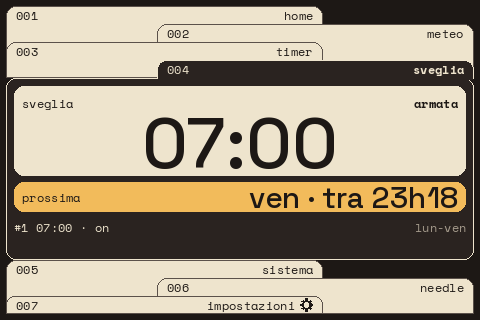
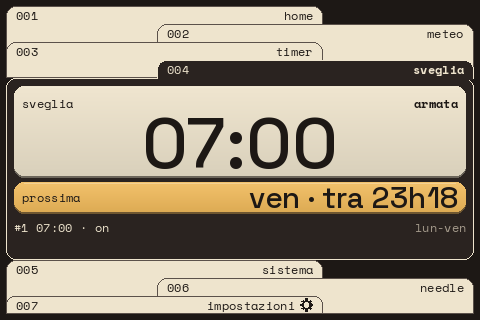
Togli il cursore lampeggiante e dai più rilievo alla grafica
Claude-Session: https://claude.ai/code/session_01Apbx8p7nQq6Tz9RBWnoY8j

Changed region(s): [[0.0312, 0.6562, 0.9688, 0.6875], [0.0312, 0.5312, 0.9688, 0.5625]]

diff --git a/dash/render/canvas.py b/dash/render/canvas.py
@@ -17,6 +17,7 @@ from ..motion import Fx, Slot
 from .theme import GRID, fit, font, px, text_mask
 
 Color = str | tuple[int, int, int]
+_GRADIENTS: dict[tuple, tuple[Image.Image, Image.Image]] = {}  # sfumature dei pannelli già pronte
 
 
 class Canvas:
@@ -65,6 +66,92 @@ class Canvas:
                                  outline=None if outline is None else self.rgb(outline),
                                  width=self.line if width is None else width)
 
+    def solid(self, box: Box | tuple[float, float, float, float], fill: str, r: int | None = None,
+              depth: bool = True) -> None:
+        """Pannello a rilievo: ombra morbida sotto, sfumatura leggera dall'alto, filo di luce.
+
+        Stesso ingombro di `rect`: l'ombra cade nello spazio fra pannelli (`gap`). Con `depth`
+        falso (cartelle, linguette) disegna solo la sfumatura e il filo di luce.
+        """
+        xy = tuple(round(v) for v in (box.rect if isinstance(box, Box) else box))
+        r = self.radius if r is None else r
+        w, h = xy[2] - xy[0], xy[3] - xy[1]
+        if w < 4 or h < 4:
+            self.rect(xy, fill, r=r)
+            return
+        if depth:
+            dy = self.px(2)
+            self.d.rounded_rectangle((xy[0], xy[1] + dy, xy[2], xy[3] + dy), radius=r,
+                                     fill=self.mix(fill, "bg", 0.62))
+        top, bottom = self.mix(fill, "paper", 0.12), self.mix(fill, "ink", 0.10)
+        key = (w + 1, h + 1, r, top, bottom)
+        body = _GRADIENTS.get(key)
+        if body is None:
+            strip = Image.new("RGB", (1, h + 1))
+            for y in range(h + 1):
+                f = y / max(1, h)
+                strip.putpixel((0, y), tuple(round(a + (b - a) * f) for a, b in zip(top, bottom)))
+            mask = Image.new("L", (w + 1, h + 1))
+            ImageDraw.Draw(mask).rounded_rectangle((0, 0, w, h), radius=r, fill=255)
+            body = _GRADIENTS[key] = (strip.resize((w + 1, h + 1)), mask)
+            if len(_GRADIENTS) > 64:
+                _GRADIENTS.pop(next(iter(_GRADIENTS)))
+        self.img.paste(body[0], (xy[0], xy[1]), body[1])
+        light = self.mix(fill, "paper", 0.42)
+        self.d.line((xy[0] + r, xy[1] + 1, xy[2] - r, xy[1] + 1), fill=light, width=1)
+
+    def key(self, box: Box, fill: str, outline: Color | None, width: int | None = None) -> None:
+        """Bottone in rilievo: sfumatura, contorno e un'ombra sottile lungo il bordo basso."""
+        self.solid(box, fill, depth=False)
+        self.rect(box, None, outline, width)
+        r, y = self.radius, round(box.y + box.h) - 2
+        self.d.line((round(box.x) + r, y, round(box.x + box.w) - r, y),
+                    fill=self.mix(fill, "ink", 0.45), width=1)
+
+    def icon(self, kind: str, box: Box, color: Color, bg: Color) -> None:
+        """Icona meteo a linee piene (sole, nuvola, pioggia, neve, temporale, nebbia) in `box`."""
+        s = min(box.w, box.h)
+        cx, cy = box.x + box.w / 2, box.y + box.h / 2
+        col, d = self.rgb(color), self.d
+        lw = max(1, round(s / 14))
+
+        def sun(x: float, y: float, r: float) -> None:
+            for i in range(8):
+                a = i * math.pi / 4
+                d.line((x + math.cos(a) * r * 1.45, y + math.sin(a) * r * 1.45,
+                        x + math.cos(a) * r * 1.95, y + math.sin(a) * r * 1.95), fill=col, width=lw)
+            d.ellipse((x - r, y - r, x + r, y + r), fill=col)
+
+        def cloud(x: float, y: float, w: float) -> None:
+            h = w * 0.34
+            d.ellipse((x - w * .5, y - h * .2, x - w * .1, y + h * .6), fill=col)
+            d.ellipse((x - w * .28, y - h * .9, x + w * .18, y + h * .6), fill=col)
+            d.ellipse((x - w * .02, y - h * .5, x + w * .5, y + h * .6), fill=col)
+            d.rectangle((x - w * .3, y, x + w * .3, y + h * .6), fill=col)
+
+        if kind == "sun":
+            sun(cx, cy, s * 0.22)
+        elif kind == "partly":
+            sun(cx + s * .12, cy - s * .14, s * .16)
+            cloud(cx - s * .04, cy + s * .12, s * .8)
+        elif kind == "fog":
+            for i in range(4):
+                y = cy - s * .27 + i * s * .18
+                d.line((cx - s * .4 + (i % 2) * s * .1, y, cx + s * .4 - (i % 2) * s * .1, y),
+                       fill=col, width=lw)
+        else:
+            cloud(cx, cy - s * .12, s * .86)
+            for i in range(3):
+                x, y = cx - s * .25 + i * s * .25, cy + s * .3
+                if kind == "snow":
+                    d.ellipse((x - lw, y - lw, x + lw, y + lw), fill=col)
+                elif kind == "storm" and i == 1:
+                    d.polygon([(x + lw, y - s * .1), (x - lw * 1.5, y + s * .06), (x, y + s * .06),
+                               (x - lw, y + s * .22), (x + lw * 1.8, y + s * .02), (x + lw * .3, y + s * .02)],
+                              fill=self.rgb("amber"))
+                elif kind != "cloud":
+                    d.line((x + lw, y - s * .06, x - lw, y + s * .14), fill=col, width=lw)
+
     def qr(self, box: Box, moduli: list[list[bool]], dark: Color = "ink",
            light: Color = "cream") -> None:
         """QR code centrato in `box`: moduli interi di pixel, su fondo `light` con due moduli di
@@ -89,8 +176,11 @@ class Canvas:
         """Barra arrotondata: fondo `track`, parte piena `color` proporzionale a `frac`."""
         self.rect(bar, track, outline, r=bar.h // 2)
         if frac > 0 or show_empty:
-            self.rect((bar.x, bar.y, bar.x + max(bar.h, round(bar.w * min(1.0, frac))), bar.bottom - 1),
-                      color, r=bar.h // 2)
+            end = bar.x + max(bar.h, round(bar.w * min(1.0, frac)))
+            self.rect((bar.x, bar.y, end, bar.bottom - 1), color, r=bar.h // 2)
+            if bar.h >= 5:  # riflesso sul bordo alto della parte piena
+                self.d.line((bar.x + bar.h // 2, bar.y + 1, end - bar.h // 2, bar.y + 1),
+                            fill=self.mix(color, "paper", 0.45), width=1)
 
     def ring(self, box: Box, frac: float, color: str, lw: int, dot: float,
              track: Color = "line", bg: str = "panel") -> None:
@@ -157,7 +247,7 @@ class Canvas:
         `ref` dà la taglia del numero (serie allineate: 7% e 100% uguali); `reserve` lascia
         libera quella larghezza a destra, per tutta l'altezza (anello del vento).
         """
-        self.rect(box, fill)
+        self.solid(box, fill)
         pad = self.pad
         lab_h = self.height(self.f_label)
         if box.h < 2 * pad + 2 * lab_h + self.gap:  # riga unica: etichetta … numero

diff --git a/dash/render/effects.py b/dash/render/effects.py
@@ -45,13 +45,25 @@ def draw_fx(cv: Canvas, e: Fx, t: float) -> None:
                                width=round(lw))
 
 
-def draw_decode(cv: Canvas, slot: Slot, p: float, keep: str, frame_no: int) -> None:
+def clear(cv: Canvas, box: tuple[int, int, int, int], bg: str, base: Image.Image | None) -> None:
+    """Cancella `box` con il fondo: riga per riga dalla pagina base (i pannelli a rilievo hanno
+    una sfumatura verticale), altrimenti con il colore piatto `bg`."""
+    x0, y0, x1, y1 = box
+    if base is None or not (0 <= x0 - 1 and x1 < base.width):
+        cv.d.rectangle(box, fill=cv.c[bg])
+        return
+    for y in range(max(0, y0), min(base.height, y1 + 1)):
+        cv.d.line((x0, y, x1, y), fill=base.getpixel((x0 - 1, y)))
+
+
+def draw_decode(cv: Canvas, slot: Slot, p: float, keep: str, frame_no: int,
+                base: Image.Image | None = None) -> None:
     """Cifre che scorrono e si fermano da sinistra a destra, ognuna al suo posto finale."""
     seed = zlib.crc32(slot.key.encode()) ^ frame_no  # riproducibile fra esecuzioni
     text = scramble(slot.text, p, seed, keep)
     if text == slot.text:
         return
-    cv.d.rectangle(slot.box, fill=cv.c[slot.bg])
+    clear(cv, slot.box, slot.bg, base)
     x = cv.left(slot.text, slot.font, slot.xy[0], slot.anchor)
     for i, c in enumerate(text):
         cx = x + slot.font.getlength(slot.text[:i])

diff --git a/dash/render/pages/weather.py b/dash/render/pages/weather.py
@@ -23,7 +23,7 @@ def draw(cv: Canvas, b: Box, app: App, now: datetime) -> None:
     cur = data["current"]
     idx = wx.hour_index(data)
     g, pad = cv.gap, cv.pad
-    text, _ = describe(int(cur.get("weather_code", -1)))
+    text, icon = describe(int(cur.get("weather_code", -1)))
     kn = float(cur.get("wind_speed_10m", 0.0))
     deg = float(cur.get("wind_direction_10m", 0.0))
     gust = float(cur.get("wind_gusts_10m", 0.0))
@@ -33,9 +33,12 @@ def draw(cv: Canvas, b: Box, app: App, now: datetime) -> None:
     top_h = round(b.h * 0.44)
     left = Box(b.x, b.y, round((b.w - g) * 0.45), top_h)
     right = Box(left.right + g, b.y, b.right - left.right - g, top_h)
+    ic = min(left.h - 2 * pad, round(left.w * 0.34))  # icona a destra, nello spazio libero
     cv.panel(left, "cream", SHORT.get(text, text), f"{float(cur.get('temperature_2m', 0)):.0f}°",
              f"percepita {float(cur.get('apparent_temperature', 0)):.0f}°", ref="-00°",
-             slot="weather.temp")
+             reserve=ic + g if ic > cv.px(30) else 0, slot="weather.temp")
+    if ic > cv.px(30):
+        cv.icon(icon, Box(left.right - pad - ic, left.y + (left.h - ic) // 2, ic, ic), "ink", "cream")
     side = min(right.h - 2 * pad, round(right.w * 0.36))
     mostra = side > cv.px(34)
     cv.panel(right, "orange", f"vento {vento_nome(deg).lower()}", f"{kn:.0f} kn",

diff --git a/dash/display/fb.py b/dash/display/fb.py
@@ -23,6 +23,7 @@ log = logging.getLogger(__name__)
 
 KDSETMODE = 0x4B3A
 KD_TEXT, KD_GRAPHICS = 0x00, 0x01
+HIDE_CURSOR, SHOW_CURSOR = b"\x1b[?25l", b"\x1b[?25h"
 SYS_FB = Path("/sys/class/graphics")
 DEV_DIR = Path("/dev")
 PANEL_NAMES = ("ili9486", "ili9341", "st7796", "hx8357", "fb_")  # driver SPI noti
@@ -127,8 +128,11 @@ class FramebufferDisplay(Display):
                 except PermissionError:  # gruppo tty: solo scrittura
                     self._tty = os.open("/dev/tty0", os.O_WRONLY)
             fcntl.ioctl(self._tty, KDSETMODE, mode)
+            # cursore lampeggiante della console (il "-" sullo schermo): nascosto anche a parte,
+            # perché con KD_GRAPHICS non sempre fbcon smette di disegnarlo
+            os.write(self._tty, HIDE_CURSOR if mode == KD_GRAPHICS else SHOW_CURSOR)
         except OSError as exc:
-            log.debug("console non gestita (%s): vedi docs/hardware.md", exc)
+            log.warning("console non fermata (%s): può comparire il cursore, vedi docs/installazione.md § 5.5", exc)
             if self._tty is not None:
                 os.close(self._tty)
                 self._tty = None

diff --git a/dash/render/pages/timer.py b/dash/render/pages/timer.py
@@ -43,7 +43,7 @@ def draw(cv: Canvas, b: Box, app: App, now: datetime) -> None:
     bg = "orange" if running else "cream"
     top, bar, _ = _geometry(b, cv.u)
     # pannello del tempo: nome della durata e stato in alto, minuti:secondi al centro
-    cv.rect(top, bg)
+    cv.solid(top, bg)
     cv.label((top.x + pad, top.y + pad), t.labels.get(t.duration, "timer"), "ink")
     stato = t.state.value.lower()
     if t.state in (TimerState.IDLE, TimerState.PAUSED) and t.remaining() > 0:
@@ -68,7 +68,7 @@ def draw(cv: Canvas, b: Box, app: App, now: datetime) -> None:
     for cb, hit in boxes:
         active = hit == lampo
         tenue = hit in ("sub", "clear")
-        cv.rect(cb, "pink" if active else "panel", "cream" if active else "line",
-                cv.stroke if active else cv.line)
+        cv.key(cb, "pink" if active else "panel", "cream" if active else "line",
+               cv.stroke if active else cv.line)
         cv.text((cb.x + cb.w / 2, cb.y + cb.h / 2), testi[hit], font,
                 "paper" if active else ("tan" if tenue else "cream"), "mm")

diff --git a/dash/render/pages/needle.py b/dash/render/pages/needle.py
@@ -85,8 +85,8 @@ def draw(cv: Canvas, b: Box, app: App, now: datetime) -> None:
     attivo = online and not busy
     for i, (cb, _) in enumerate(boxes):
         toccata = i == lampo
-        cv.rect(cb, "pink" if toccata else "panel",
-                "cream" if toccata else ("amber" if i == w.idx else "line"),
-                cv.stroke if toccata else cv.line)
+        cv.key(cb, "pink" if toccata else "panel",
+               "cream" if toccata else ("amber" if i == w.idx else "line"),
+               cv.stroke if toccata else cv.line)
         cv.text((cb.x + cb.w / 2, cb.y + cb.h / 2), w.queries[i], f,
                 "paper" if toccata else ("cream" if attivo else "tan"), "mm")

diff --git a/dash/render/pages/alarm.py b/dash/render/pages/alarm.py
@@ -19,7 +19,10 @@ def draw(cv: Canvas, b: Box, app: App, now: datetime) -> None:
     bg, col = ("cream", "ink") if armed else ("panel", "cream")
     # pannello dell'ora: acceso se armata, solo contorno se disarmata
     top = Box(b.x, b.y, b.w, round(b.h * 0.54))
-    cv.rect(top, bg, None if armed else "cream", cv.stroke)
+    if armed:
+        cv.solid(top, bg)
+    else:
+        cv.rect(top, bg, "cream", cv.stroke)
     cv.label((top.x + pad, top.y + pad), "sveglia", col)
     cv.label((top.right - pad, top.y + pad), "armata" if armed else "disarmata", col, "ra", bold=True)
     head = cv.height(cv.f_label) + g

diff --git a/dash/render/renderer.py b/dash/render/renderer.py
@@ -105,7 +105,7 @@ class CyberRenderer:
             effects.draw_fx(cv, e, t)
         frame_no = int(t * motion.fps)
         for slot, progress, keep in decodes:
-            effects.draw_decode(cv, slot, progress, keep, frame_no)
+            effects.draw_decode(cv, slot, progress, keep, frame_no, base)
         if wipe is not None and motion.wipe_from is not None:
             return effects.wipe(motion.wipe_from, cv.img, wipe, self.c, u)
         return cv.img

diff --git a/dash/render/pages/new.py b/dash/render/pages/new.py
@@ -75,7 +75,7 @@ def hits(b: Box, widget: Any, u: float) -> list[tuple[Box, str]]:
 
 def _button(cv: Canvas, box: Box, text: str, f: Any, fill: str = "panel", ink: str = "cream",
             outline: str = "line") -> None:
-    cv.rect(box, fill, outline, cv.line)
+    cv.key(box, fill, outline, cv.line)
     cv.text((box.x + box.w / 2, box.y + box.h / 2), text, f, ink, "mm")
 
 

diff --git a/CHANGELOG.md b/CHANGELOG.md
@@ -1,5 +1,14 @@
 # Changelog
 
+## Non rilasciato
+- **Trattino intermittente tolto**: era il cursore lampeggiante della console di testo, che con il
+  framebuffer SPI restava acceso se `KDSETMODE` non andava a buon fine. Ora pi-dash lo nasconde
+  anche con la sequenza `ESC[?25l`, segnala (warning) quando non riesce a fermare la console, e il
+  servizio spegne `fbcon/cursor_blink` prima di partire. Dopo l'aggiornamento: `scripts/installa-servizio.sh`.
+- **Grafica con più rilievo**: pannelli con ombra, sfumatura e filo di luce (`Canvas.solid`),
+  bottoni in rilievo (`Canvas.key`), riflesso sulle barre, icona del tempo sulla pagina meteo
+  (`Canvas.icon`). Le funzioni non cambiano; anteprime rigenerate.
+
 ## 0.10.0 — 2026-10-03
 - **Parlare a Needle dal telefono**: con `voce.porta` (es. 8443) pi-dash serve in HTTPS una pagina
   con un bottone "premi e parla". Il browser del telefono riconosce la voce in italiano e manda al
